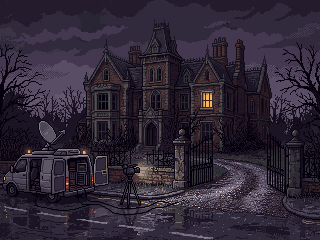
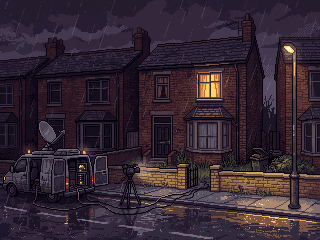
Polson Towers: a real red-brick terrace on the map, not an arrow down a road
The POLSON_ROAD gate becomes a building (same id, so chapters, arcs, tokens and saves still point at it):
new PixelLab house art with drawn curtains, an overflowing bin and a pizza box, entered by its door with
the existing Polson chat / chapter 2 dungeon / cuddle token logic. A short street in front and a lane up to
the main road replace the old road off the east edge; the lights go off (dim tint) after Chapter 6.
The flyover's POLSON TOWERS stop now pushes in on the house front. The KrelTV Polson Towers exterior and
the Krews vox-pop backdrop are redrawn as the terrace instead of a gothic mansion.

Claude-Session: https://claude.ai/code/session_01VMaYe2CeeKzcmBuCUqa9Rb

diff --git a/src/game/scenes/HubScene.ts b/src/game/scenes/HubScene.ts
@@ -85,10 +85,11 @@ const BUILDINGS: Building[] = [
   { id: "POLICE", name: "KRELFORD CONSTABULARY", x: 1700, y: 1670, w: 240, h: 130, wall: 0x1e3a8a, roof: 0x111827, door: { x: 1700, y: 1735 } },
   { id: "CROBLEY_FACTORY", name: "CROBLEY CORP HQ (THE CROBLEY FACTORY)", x: 1660, y: 1255, w: 288, h: 224, wall: 0xf472b6, roof: 0x334155, door: { x: 1660, y: 1367 } },
   { id: "OLD_FLAT", name: "YOUR OLD FLAT", x: 700, y: 1650, w: 200, h: 130, wall: 0x9a8a7a, roof: 0x5a3a2a, door: { x: 700, y: 1715 } },
+  // a red-brick terrace on the east edge (the id is still POLSON_ROAD: chapters, arcs and saves all point at it)
+  { id: "POLSON_ROAD", name: "POLSON TOWERS", x: 2470, y: 970, w: 168, h: 160, wall: 0xa0442c, roof: 0x3a2a24, door: { x: 2470, y: 1050 } },
 ];
 
 const GATES: { id: string; name: string; x: number; y: number }[] = [
-  { id: "POLSON_ROAD", name: "→ POLSON TOWERS", x: 2500, y: 1010 },
   { id: "AIRPORT", name: "→ KRELFORD INTERNATIONAL", x: 2500, y: 1650 },
   { id: "KREDDLE_BRIDGE", name: "← THE KREDDLE BRIDGE (casinos, arcades, hostility)", x: 70, y: 825 },
 ];
@@ -739,7 +740,9 @@ export class HubScene extends Phaser.Scene {
       [300, 1500, 2000, 70],
       [500, 560, 1700, 60],
       [200, 1000, 70, 700],
-      [2400, 860, 160, 290],
+      // the street in front of Polson Towers
+      [2340, 1045, 220, 105],
+      [2340, 860, 60, 200],
     ]) scorched(this.add.tileSprite(x, y, w, h, "tile_road").setOrigin(0).setDepth(0), 0x5a4c48);
     // plaza
     scorched(this.add.tileSprite(1060, 650, 440, 340, "tile_cobble").setOrigin(0).setDepth(0), 0x5a4c48);
@@ -833,7 +836,7 @@ export class HubScene extends Phaser.Scene {
       const [x, y] = treeSpots[i];
       if (this.nearBuilding(x, y, 70) || (Math.abs(x - 1280) < 90) || (y > 760 && y < 900) || (y > 1480 && y < 1590)) continue;
       // keep the side roads and paths clear too
-      if ([[80, 780, WORLD_W, 870], [300, 1500, 2300, 1570], [500, 560, 2200, 620], [200, 1000, 270, 1700], [2400, 860, 2560, 1150], [1060, 650, 1500, 990]].some(([x0, y0, x1, y1]) => x > x0 - 40 && x < x1 + 40 && y > y0 - 50 && y < y1 + 40)) continue;
+      if ([[80, 780, WORLD_W, 870], [300, 1500, 2300, 1570], [500, 560, 2200, 620], [200, 1000, 270, 1700], [2340, 860, 2560, 1150], [1060, 650, 1500, 990]].some(([x0, y0, x1, y1]) => x > x0 - 40 && x < x1 + 40 && y > y0 - 50 && y < y1 + 40)) continue;
       if (BUILDINGS.some((b) => b.door && Math.abs(x - b.door.x) < 80 && y > b.door.y - 20 && y < b.door.y + 120)) continue;
       if (Object.values(NPC_SPOTS).some((p) => Math.hypot(p.x - x, p.y - y) < 60)) continue;
       if (this.ruined) {
@@ -917,7 +920,7 @@ export class HubScene extends Phaser.Scene {
       [300, 1500, 2300, 1570],
       [500, 560, 2200, 620],
       [200, 1000, 270, 1700],
-      [2400, 860, 2560, 1150],
+      [2340, 860, 2560, 1150],
       [1060, 650, 1500, 990],
     ];
     const onRoad = (x: number, y: number, m = 20) => ROADS.some(([x0, y0, x1, y1]) => x > x0 - m && x < x1 + m && y > y0 - m && y < y1 + m);
@@ -1538,6 +1541,8 @@ export class HubScene extends Phaser.Scene {
       this.colliders.add(this.add.rectangle(b.x, b.y + b.h * 0.12, b.w * 0.86, b.h * 0.7, 0, 0));
       if (key === "bld_CROBLEY_FACTORY_RUIN" || key === "bld_WILDERN_RUIN") this.smoulder(b);
       else if (b.id === "CITADEL") this.towerFx(b, img);
+      // Polson Towers after Chapter 6: the lights are off
+      else if (b.id === "POLSON_ROAD" && G.s.flags.polson_dead) img.setTint(0x8a8aa8);
       else this.neonGlow(b.x, b.y - b.h * 0.25, Math.max(60, b.w * 0.45));
       void img;
       return;

diff --git a/src/game/scenes/hub/flyover.ts b/src/game/scenes/hub/flyover.ts
@@ -20,7 +20,7 @@ import { BRIDGE_Y0, BRIDGE_Y1, KE, KGROUND, glowTexture, snapKreddle, type FlyBo
 export const FLY_STOPS: { x: number; y: number; head: string; cap: string }[] = [
   { x: 1280, y: 1300, head: "WILDERN ACADEMY", cap: "WILDERN ACADEMY. The local school. The new headmaster is said to be very… krazy." },
   { x: 1650, y: 1080, head: "THE KRELTOWER", cap: "THE KRELTOWER. The tallest building in Krelford. Nobody's sure what's on the top floor. Nobody's asked." },
-  { x: 2440, y: 1010, head: "POLSON TOWERS", cap: "POLSON TOWERS (down that road). Polson HQ. Home of Polson, a lot of stuff, and every decision he's ever not made. Thoughts? Wbu?" },
+  { x: 2470, y: 1010, head: "POLSON TOWERS", cap: "POLSON TOWERS. Polson HQ. Home of Polson, a lot of stuff, and every decision he's ever not made. Thoughts? Wbu?" },
   { x: 1900, y: 440, head: "THE HISTORICAL ARCHIVE", cap: "THE HISTORICAL ARCHIVE. Every message ever sent, kept forever. The FGM War Room is in the basement." },
   { x: 1280, y: 440, head: "KRELFORD TOWN HALL", cap: "KRELFORD TOWN HALL. Where the cabinet meets, argues, and governs." },
   { x: 1280, y: 800, head: "THE GREAT PUSSY JUICE TAP", cap: "THE GREAT PUSSY JUICE TAP. It heals. It nourishes. It is the national drink. Never let it stop. It comes from the juice of women's pussies" },
@@ -117,8 +117,8 @@ const SHOTS: [Omit<Aim, "x" | "y">, Omit<Aim, "x" | "y">][] = [
   [{ d: 900, p: 48, yaw: 0, r: 0 }, { d: 720, p: 52, yaw: -10, r: 0 }],
   // the Kreltower: low, orbiting round it
   [{ d: 1000, p: 16, yaw: 125, r: 4 }, { d: 880, p: 20, yaw: 195, r: -3 }],
-  // Polson Towers: looking east down the road
-  [{ d: 560, p: 15, yaw: 84, r: 0 }, { d: 720, p: 12, yaw: 98, r: 2 }],
+  // Polson Towers: low, pushing in on the front of the terrace
+  [{ d: 640, p: 16, yaw: -16, r: 0 }, { d: 470, p: 20, yaw: 4, r: 1 }],
   // the Archive: a truck along the front
   [{ d: 760, p: 40, yaw: 28, r: 0 }, { d: 700, p: 44, yaw: 8, r: 0 }],
   // the Town Hall: head-on, pushing in

diff --git a/src/game/scenes/TVScene.ts b/src/game/scenes/TVScene.ts
@@ -673,7 +673,7 @@ export class TVScene extends Phaser.Scene {
         P(150, 170, 50, 50, 0xffe08a, 0.7);
         P(360, 170, 50, 50, 0xffe08a, 0.7);
         P(0, 340, SW, 80, 0x7a5a2a);
-        this.stage.add(this.add.text(SX + 280, SY + 380, "(the moat is gravy)", { fontFamily: FONT, fontSize: "11px", color: "#ddd" }).setOrigin(0.5));
+        this.stage.add(this.add.text(SX + 280, SY + 380, "(the bin is overflowing)", { fontFamily: FONT, fontSize: "11px", color: "#ddd" }).setOrigin(0.5));
         break;
       case "townhall_cam":
         P(0, 0, SW, SH, 0x6b2737);
